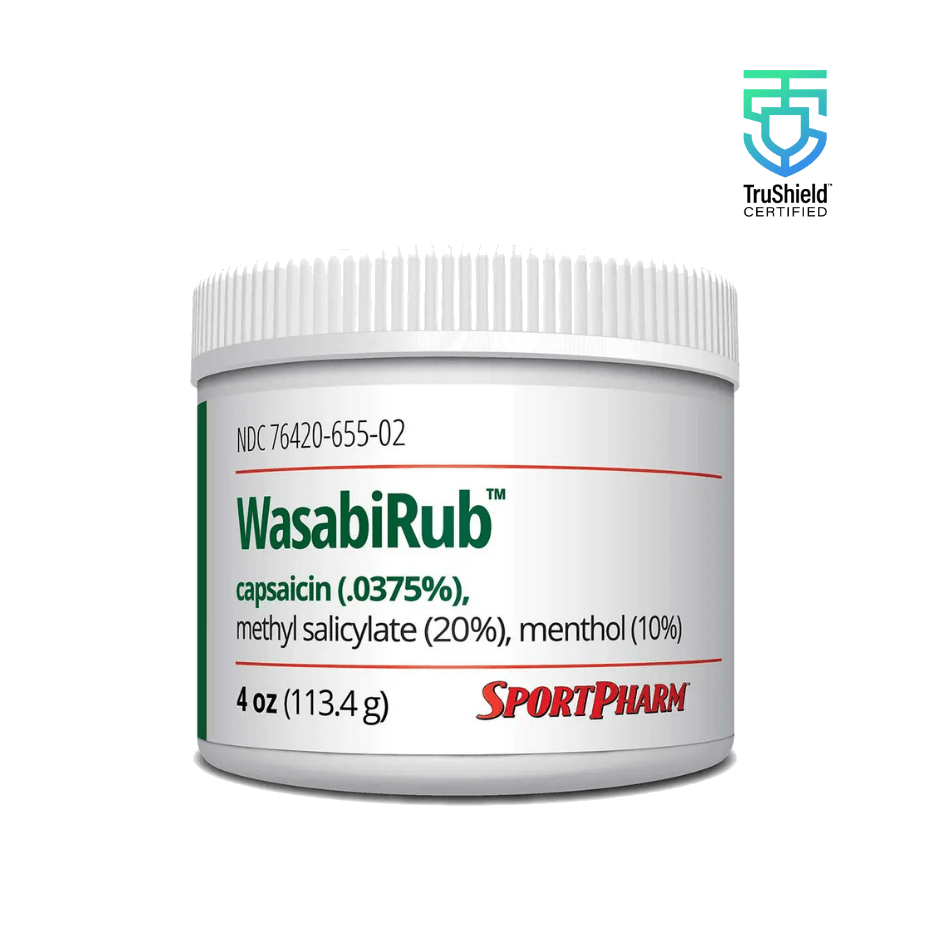
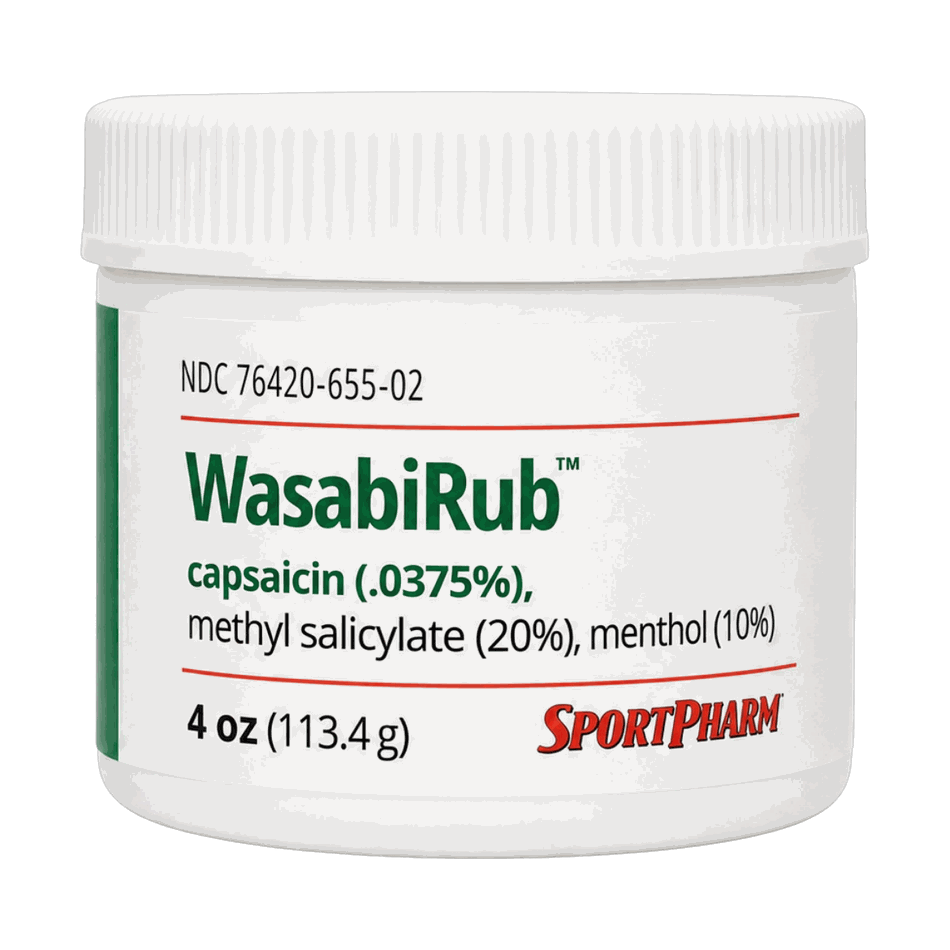
WasabiRub: add auto-advancing testimonial carousel (8 approved quotes, 3s) + swap in real transparent product photography (WasabiRub/IcetraRub Super Cold/Super Hot) across all jar images, lineup + duo composites

Changed region(s): [[0.0618, 0.0618, 0.9275, 0.9275]]

diff --git a/wasabirub.html b/wasabirub.html
@@ -101,9 +101,21 @@
     .result-buy a{padding:16px 20px;border-radius:10px;background:var(--deep);color:#fff;font-size:11px;font-weight:900;letter-spacing:.08em}
     .proof{max-width:980px;padding:32px 40px 28px;text-align:center}
     .quote-mark{color:var(--red);font-family:Georgia,serif;font-size:60px;line-height:.5}
-    blockquote{max-width:900px;margin:20px auto;font-size:clamp(26px,3.2vw,39px);font-weight:900;line-height:1.2;letter-spacing:-.04em}
+    blockquote{max-width:860px;margin:18px auto 0;font-size:clamp(19px,2.4vw,29px);font-weight:900;line-height:1.32;letter-spacing:-.02em}
     .proof p{color:#68736f;font-size:10px;font-weight:900;letter-spacing:.14em}
-    .stars{margin-top:16px;color:var(--red);font-size:17px;letter-spacing:5px}.stars span{margin-left:12px;color:#68736f;font-size:9px;letter-spacing:.12em}
+    .stars{margin-top:16px;color:var(--red);font-size:16px;letter-spacing:5px}.stars span{margin-left:12px;color:#68736f;font-size:9px;letter-spacing:.12em}
+    .tcarousel{display:grid;max-width:900px;margin:0 auto}
+    .tslide{grid-area:1/1;opacity:0;visibility:hidden;transition:opacity .5s ease;display:flex;flex-direction:column;align-items:center;justify-content:center}
+    .tslide.is-active{opacity:1;visibility:visible}
+    .tattr{margin-top:22px}
+    .tattr b{display:block;font-size:14px;font-weight:900;color:var(--ink);letter-spacing:.01em}
+    .tattr span{display:block;font-size:10.5px;font-weight:900;letter-spacing:.1em;text-transform:uppercase;color:#8a938f;margin-top:5px}
+    .tnav{display:flex;align-items:center;justify-content:center;gap:16px;margin-top:30px}
+    .tarrow{width:38px;height:38px;border-radius:50%;border:1px solid #d7dcd9;background:#fff;color:var(--ink);font-size:20px;line-height:1;cursor:pointer;display:flex;align-items:center;justify-content:center;transition:.18s}
+    .tarrow:hover{border-color:var(--red);color:var(--red)}
+    .tdots{display:flex;gap:8px}
+    .tdot{width:8px;height:8px;border-radius:50%;background:#d2d7d4;border:0;cursor:pointer;padding:0;transition:.2s}
+    .tdot.is-active{background:var(--red);width:22px;border-radius:5px}
     .bundle{display:grid;grid-template-columns:1fr 1fr;margin-bottom:0;background:var(--paper)}
     .bundle-image{position:relative;display:flex;align-items:center;justify-content:center;padding:24px;background:radial-gradient(circle,#fff,#e9ebec 72%)}
     .bundle-image img{width:68%;max-width:390px}
@@ -220,10 +232,85 @@
 
     <section class="proof shell" id="proof">
       <div class="quote-mark">“</div>
-      <blockquote>“I get WasabiRub for my players to use and they love it. They request it specifically now.”</blockquote>
-      <p><b>SAMANTHA M.</b></p>
-      <div class="stars">★★★★★ <span>5.0 PRODUCT RATING</span></div>
+      <div class="tcarousel" id="tcarousel">
+        <div class="tslide is-active">
+          <blockquote>“I’ve used a lot of topical pain relief gels, and this stuff is easily one of the best. You can tell this is professional-grade and not your average store-bought stuff. If you’re a runner, lifter, or just dealing with everyday aches and pains, this stuff is money.”</blockquote>
+          <div class="stars">★★★★★</div>
+          <div class="tattr"><b>Matt Furstenburg</b><span>CEO &amp; Co-Founder, Grip Boost Inc.</span></div>
+        </div>
+        <div class="tslide">
+          <blockquote>“We’ve had good results with a variety of SportPharm’s topicals and compounded medications. WasabiRub helps manage muscle soreness and minor strains so our athletes can stay available and ready.”</blockquote>
+          <div class="stars">★★★★★</div>
+          <div class="tattr"><b>Joel Lockhart</b><span>Assistant Athletic Trainer, St. Louis City Soccer Club</span></div>
+        </div>
+        <div class="tslide">
+          <blockquote>“With our match schedule and constant travel, we needed something fast, portable, and effective. WasabiRub helps manage muscle soreness and minor strains so our athletes can stay available and ready.”</blockquote>
+          <div class="stars">★★★★★</div>
+          <div class="tattr"><b>Najeeb Emmanuel, MS, LAT, ATC, PES</b><span>Assistant Athletic Trainer, FIU Soccer</span></div>
+        </div>
+        <div class="tslide">
+          <blockquote>“WasabiRub is in our kit every day. It gives players fast, localized relief and helps them stay game-ready.”</blockquote>
+          <div class="stars">★★★★★</div>
+          <div class="tattr"><b>Dr. Javier García, DAT, ATC, SMTC</b><span>Head Athletic Trainer, Seton Hall Basketball</span></div>
+        </div>
+        <div class="tslide">
+          <blockquote>“Our guys absolutely love using WasabiRub. The cooling and heating sensation lasts much longer than most products we’ve tried, and the feedback from our players has been outstanding. It helps take the edge off soreness and pain quickly while keeping our athletes feeling ready to perform. It has become a staple in our training room.”</blockquote>
+          <div class="stars">★★★★★</div>
+          <div class="tattr"><b>Michael Feliciano, MS, ATC, PES</b><span>Minor League Athletic Training, Boston Red Sox</span></div>
+        </div>
+        <div class="tslide">
+          <blockquote>“The WasabiRub is constantly being used by several players right now. The feedback has been really positive from them all, and even helped a guy with neck and shoulder issues get through a few workdays. The biggest talking point has been the longevity of its use each time — no multiple applications on game days.”</blockquote>
+          <div class="stars">★★★★★</div>
+          <div class="tattr"><b>Daniel Medd</b><span>Head Coach, South West Sydney Academy of Sport Inc.</span></div>
+        </div>
+        <div class="tslide">
+          <blockquote>“I trust SportPharm to recommend medications that are effective and safe for athletes. Their knowledge and attention to clean sport give me confidence every time.”</blockquote>
+          <div class="stars">★★★★★</div>
+          <div class="tattr"><b>Mandy Marquardt</b><span>Professional Sprint Cyclist, Team USA</span></div>
+        </div>
+        <div class="tslide">
+          <blockquote>“Fast, reliable service and competitive pricing. SportPharm makes it easy to get our athletes the medications they need without delays.”</blockquote>
+          <div class="stars">★★★★★</div>
+          <div class="tattr"><b>James Tuffy, MHA, LAT, ATC</b><span>Assistant Athletic Director, St. Thomas University</span></div>
+        </div>
+      </div>
+      <div class="tnav">
+        <button class="tarrow" id="tprev" aria-label="Previous testimonial">‹</button>
+        <div class="tdots" id="tdots"></div>
+        <button class="tarrow" id="tnext" aria-label="Next testimonial">›</button>
+      </div>
     </section>
+    <script>
+      (function(){
+        var car=document.getElementById("tcarousel");if(!car)return;
+        var slides=[].slice.call(car.querySelectorAll(".tslide"));
+        var dotsWrap=document.getElementById("tdots");
+        var i=0,timer=null,DELAY=3000;
+        slides.forEach(function(_,idx){
+          var d=document.createElement("button");
+          d.className="tdot"+(idx===0?" is-active":"");
+          d.setAttribute("aria-label","Testimonial "+(idx+1));
+          d.addEventListener("click",function(){go(idx);reset();});
+          dotsWrap.appendChild(d);
+        });
+        var dots=[].slice.call(dotsWrap.children);
+        function go(n){
+          slides[i].classList.remove("is-active");dots[i].classList.remove("is-active");
+          i=(n+slides.length)%slides.length;
+          slides[i].classList.add("is-active");dots[i].classList.add("is-active");
+        }
+        function next(){go(i+1);}
+        function start(){timer=setInterval(next,DELAY);}
+        function stop(){clearInterval(timer);}
+        function reset(){stop();start();}
+        var pn=document.getElementById("tnext"),pp=document.getElementById("tprev");
+        if(pn)pn.addEventListener("click",function(){next();reset();});
+        if(pp)pp.addEventListener("click",function(){go(i-1);reset();});
+        car.addEventListener("mouseenter",stop);
+        car.addEventListener("mouseleave",start);
+        if(!window.matchMedia||!window.matchMedia("(prefers-reduced-motion: reduce)").matches)start();
+      })();
+    </script>
 
     <section class="difference shell" id="difference">
       <div class="section-title"><p class="eyebrow dark"><i></i> WHY IT FEELS DIFFERENT</p><h2>MOST RUBS PICK<br>ONE LANE. <em>THIS ONE<br>DOES THREE.</em></h2></div>
